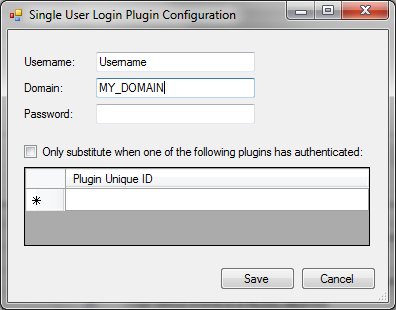
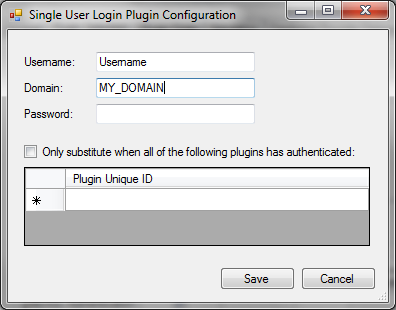
Fix checkbox text.

diff --git a/single_user.md b/single_user.md
@@ -31,7 +31,7 @@ Configuration
 * **Username** -- The username of the local account.
 * **Domain** -- The domain of the local account.
 * **Password** -- The password of the local account.
-* **Only substitute when one of the following plugins has authenticated** -- When this is checked,
+* **Only substitute when all of the following plugins have authenticated** -- When this is checked,
 the plugin will not change the user's credentials to the credentials provided above unless
 all of the listed plugins registered success in the authentication stage.
 
